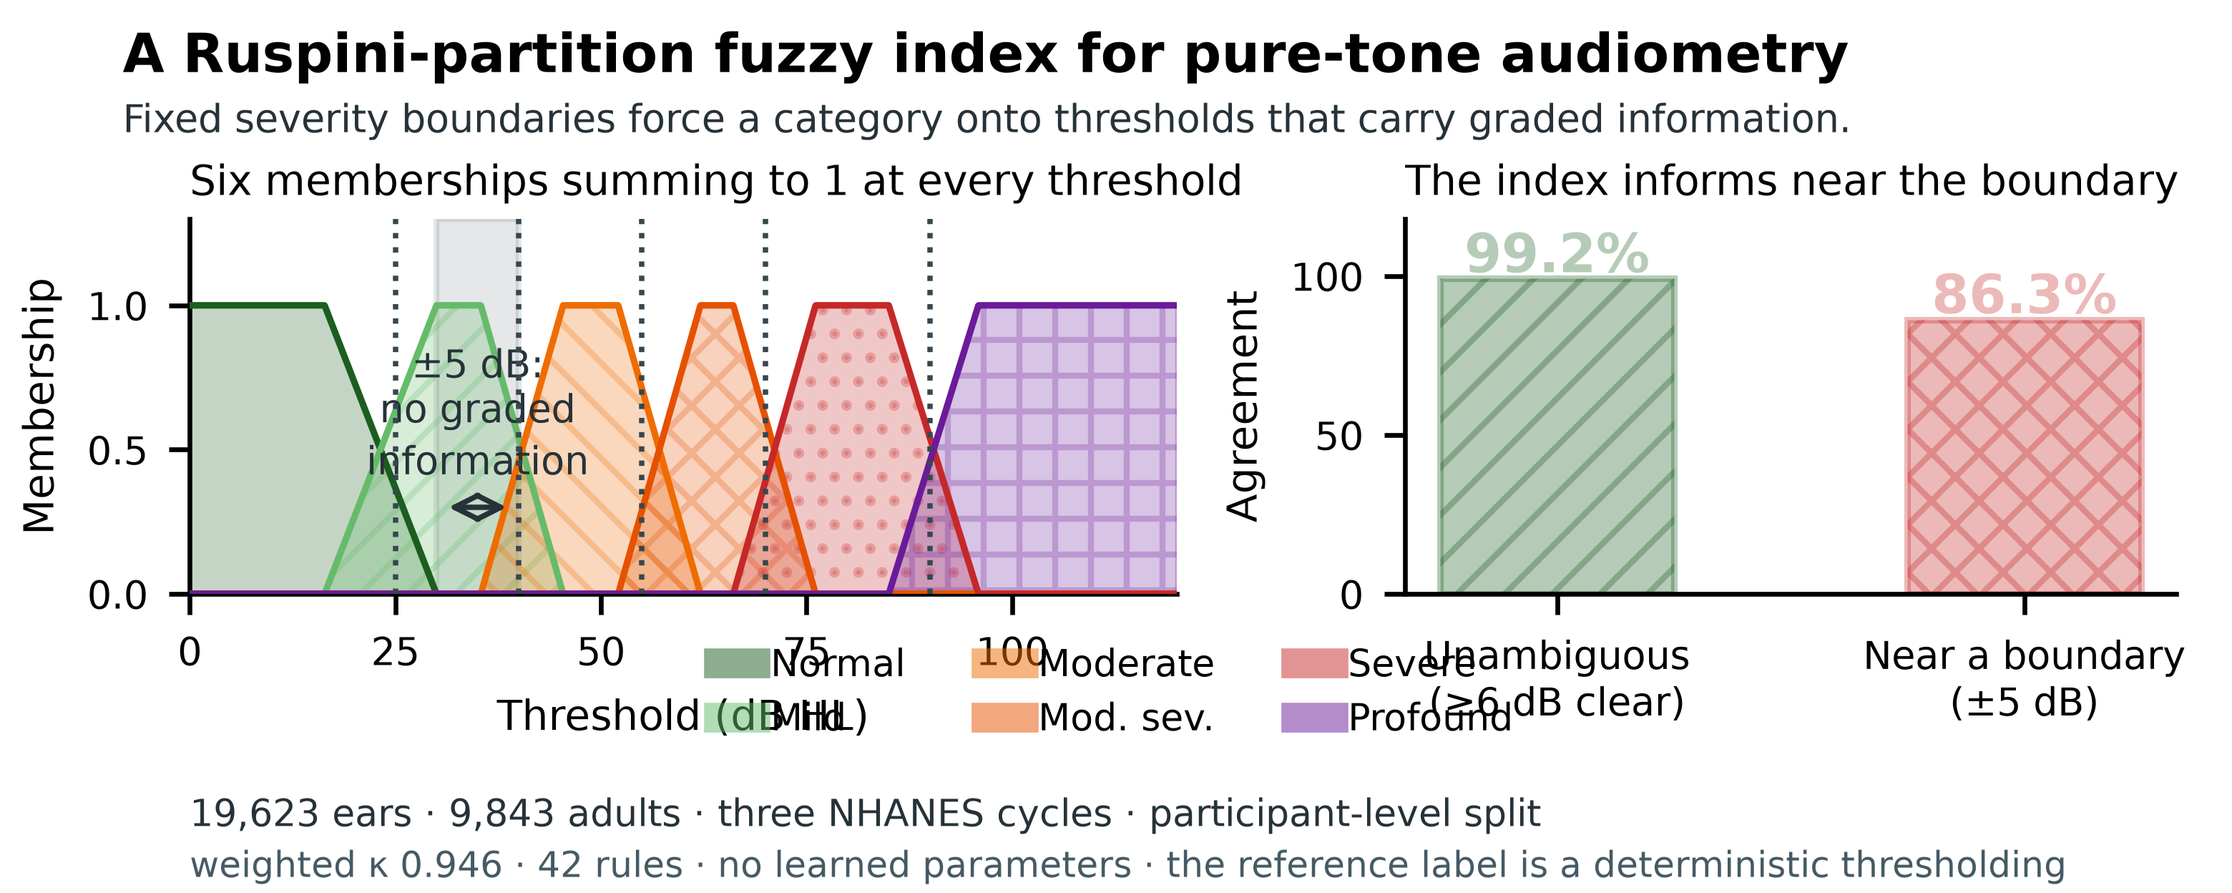
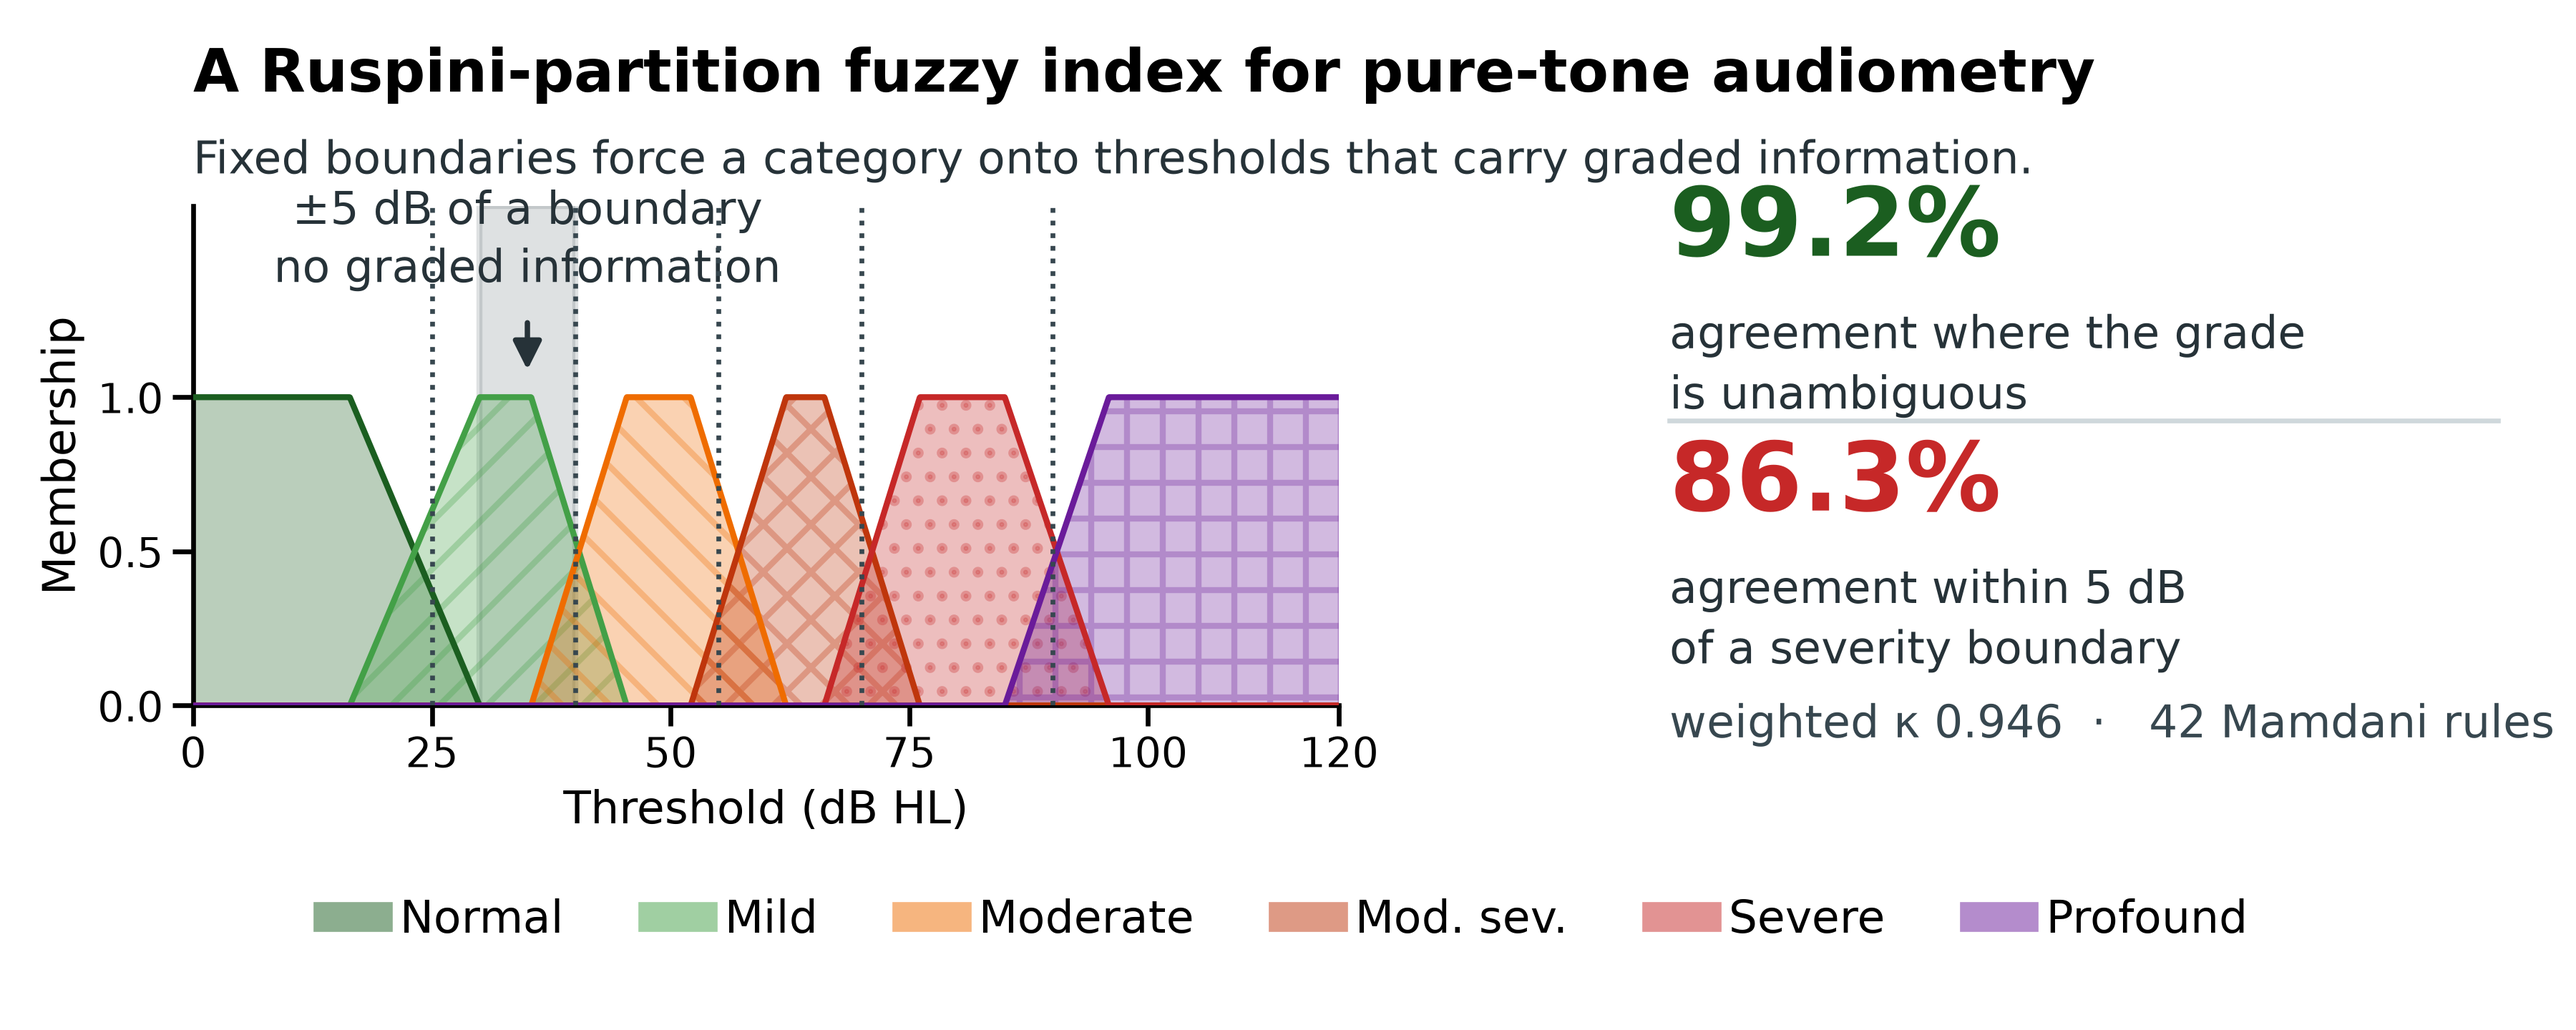
Redesign the graphical abstract: it was crowded, not merely oversized
The previous version passed the pixel minimum, the aspect ratio and the bounds check,
and was still unreadable. Two distinct failures, and only the second was obvious from
looking at it:

  - the first build was 13.28 in wide with 9 pt lettering, which renders at about 3.5 pt
    at the 13 cm display size. Wrong physical size.
  - the second was the right physical size but packed two panels, a six-item legend,
    a bar chart with axes and ticks, and three full-width text lines into 5.2 x 2.4 in.
    Wrong density.

The redesign drops the bar chart for two large numerals, which removes a set of axes,
ticks and a second legend; moves the boundary annotation above the curves instead of
across them; gives the legend a single row across the full figure width; and folds the
cohort line into the results block. The figure is 6.0 x 2.4 in with 7.5-16 pt lettering,
rendering at 6.4-13.7 pt on screen.

Two checks now run on every build, because eyeballing this twice failed:

  - overflow: every figure-level text artist's window extent against the figure box
  - collision: the legend against each axis label, and every text artist inside each
    axes against the others in that axes

The collision check caught the legend sitting on the x-axis label and the two large
percentages sitting on their own descriptive text, neither of which is visible to a
bounds check and both of which survived a visual read.
[…]

Changed region(s): [[0.0, 0.0312, 0.9949, 0.8438], [0.0933, 0.875, 0.9327, 1.0], [0.0622, 0.7188, 0.0933, 0.75]]

diff --git a/scripts/make_graphical_abstract.py b/scripts/make_graphical_abstract.py
@@ -1,21 +1,24 @@
 """Graphical abstract for the CMPB submission.
 
-Elsevier's specification is a minimum of 531 x 1328 px (h x w), "readable at a size of
-5 x 13 cm using a regular screen resolution of 96 dpi". That last clause is the binding
-constraint, and it is easy to miss: at 96 dpi a 13 cm width is only about 492 px, so
-lettering sized for a 13-inch figure renders at roughly a fifth of its nominal size.
+Design constraints, in order of importance:
 
-The usable relation is
+1. It is read at about 13 x 5 cm. Two earlier builds were technically compliant and
+   still unreadable: the first because 9 pt lettering in a 13-inch-wide figure renders
+   at ~3.5 pt at that display size, the second because even at the right physical size
+   the frame was crowded. Density is the failure mode here, not pixel count or bounds.
 
-    displayed_pt  ~=  5.13 * figure_pt / figure_width_inches
+       displayed_pt ~= 5.13 * figure_pt / figure_width_inches
 
-so legibility at the display size needs figure_pt / width_inches >= about 1.2. This
-figure is therefore drawn 5.2 in wide with 6.5-9 pt lettering, which renders at 6.5-9 pt
-on screen, rather than drawn large with small text. At 600 dpi it is 3120 x 1248 px,
-comfortably above the minimum.
+   so lettering needs figure_pt / width_inches >= ~1.2. This figure is 6.0 in wide with
+   7-19 pt lettering, which renders at 6.0-16 pt on screen.
 
-All plotted values come from the fitted parameters and the saved results, so the graphic
-cannot drift from the manuscript.
+2. Carry one idea. The panel shows the partition against the fixed boundaries, with the
+   ambiguous zone marked from above so nothing sits on the curves. The result is two
+   large numerals rather than a bar chart, because axes, ticks and a panel legend on a
+   three-inch-wide plot are what made the earlier version unreadable.
+
+3. Everything plotted comes from the fitted parameters, so it cannot drift from the
+   manuscript. Fills use hatches as well as colour.
 
 Run:  python3 scripts/make_graphical_abstract.py
 Writes: manuscript/graphical_abstract.png
@@ -37,13 +40,13 @@ PARAMS = ROOT / "data" / "output_participant" / "params_participant.json"
 ORDER = ["normal", "mild", "moderate", "moderately_severe", "severe", "profound"]
 LABEL = {"normal": "Normal", "mild": "Mild", "moderate": "Moderate",
          "moderately_severe": "Mod. sev.", "severe": "Severe", "profound": "Profound"}
-COLOUR = {"normal": "#1b5e20", "mild": "#66bb6a", "moderate": "#ef6c00",
-          "moderately_severe": "#e65100", "severe": "#c62828", "profound": "#6a1b9a"}
+COLOUR = {"normal": "#1b5e20", "mild": "#43a047", "moderate": "#ef6c00",
+          "moderately_severe": "#bf360c", "severe": "#c62828", "profound": "#6a1b9a"}
 HATCH = {"normal": "", "mild": "///", "moderate": "\\\\\\",
          "moderately_severe": "xxx", "severe": "...", "profound": "++"}
 CLARK = [25, 40, 55, 70, 90]
 
-W, H = 5.2, 2.08          # inches; 2.5:1, matching the 5 x 13 cm display
+W, H = 6.0, 2.4
 plt.rcParams.update({"font.family": "sans-serif",
                      "font.sans-serif": ["DejaVu Sans", "Arial", "Helvetica"]})
 
@@ -59,128 +62,129 @@ def trapmf(x, p):
     return y
 
 
-def panel_partition(ax, p):
+def panel(ax, p):
     x = np.linspace(0, 120, 2400)
     for k in ORDER:
         y = trapmf(x, p[k])
-        ax.fill_between(x, 0, y, facecolor=COLOUR[k], alpha=0.26, hatch=HATCH[k],
-                        edgecolor=COLOUR[k], lw=0.5, zorder=2)
-        ax.plot(x, y, color=COLOUR[k], lw=1.1, zorder=3)
+        ax.fill_between(x, 0, y, facecolor=COLOUR[k], alpha=0.30, hatch=HATCH[k],
+                        edgecolor=COLOUR[k], lw=0.4, zorder=2)
+        ax.plot(x, y, color=COLOUR[k], lw=1.0, zorder=3)
     for b in CLARK:
-        ax.axvline(b, color="#37474f", ls=":", lw=0.9, zorder=4)
-    ax.axvspan(30, 40, color="#37474f", alpha=0.13, zorder=1)
-    ax.annotate("", xy=(30, 0.30), xytext=(40, 0.30),
-                arrowprops=dict(arrowstyle="<->", color="#263238", lw=0.9))
-    ax.text(35, 0.38, "±5 dB:\nno graded\ninformation", ha="center", va="bottom",
-            fontsize=6.5, color="#263238", linespacing=1.25)
-    ax.set_xlim(0, 120); ax.set_ylim(0, 1.30)
-    ax.set_xlabel("Threshold (dB HL)", fontsize=7)
-    ax.set_ylabel("Membership", fontsize=7)
+        ax.axvline(b, color="#37474f", ls=":", lw=0.8, zorder=4)
+
+    # the ambiguous zone, marked from above so nothing sits on the curves
+    ax.axvspan(30, 40, color="#37474f", alpha=0.16, zorder=1)
+    ax.annotate("", xy=(35, 1.05), xytext=(35, 1.28),
+                arrowprops=dict(arrowstyle="-|>", color="#263238", lw=0.9))
+    ax.text(35, 1.32, "±5 dB of a boundary\nno graded information",
+            ha="center", va="bottom", fontsize=7.5, color="#263238", linespacing=1.3)
+
+    ax.set_xlim(0, 120); ax.set_ylim(0, 1.62)
+    ax.set_xlabel("Threshold (dB HL)", fontsize=7.5, labelpad=2)
+    ax.set_ylabel("Membership", fontsize=7.5, labelpad=2)
     ax.set_yticks([0, 0.5, 1.0])
-    ax.set_xticks([0, 25, 50, 75, 100])
-    ax.tick_params(labelsize=6.5)
+    ax.set_xticks([0, 25, 50, 75, 100, 120])
+    ax.tick_params(labelsize=7, pad=1.5)
     ax.spines[["top", "right"]].set_visible(False)
-    ax.set_title("Six memberships summing to 1 at every threshold",
-                 fontsize=7, loc="left", pad=4)
-    # legend is drawn at figure level; inside the axes it collided with the title
 
 
-def panel_result(ax):
-    vals = [99.2, 86.3]
-    cols = ["#1b5e20", "#c62828"]
-    hats = ["///", "xxx"]
-    bars = ax.bar([0, 1], vals, width=0.5, color=cols, alpha=0.32, hatch=hats,
-                  edgecolor=cols, lw=1.1)
-    for b, v in zip(bars, vals):
-        ax.text(b.get_x() + b.get_width() / 2, v + 2.0, f"{v}%", ha="center",
-                fontsize=9, fontweight="bold", color=b.get_edgecolor())
-    ax.set_xticks([0, 1])
-    ax.set_xticklabels(["Unambiguous\n(≥6 dB clear)", "Near a boundary\n(±5 dB)"],
-                       fontsize=6.5)
-    ax.set_ylim(0, 118)
-    ax.set_ylabel("Agreement", fontsize=7)
-    ax.set_yticks([0, 50, 100])
-    ax.tick_params(labelsize=6.5)
-    ax.spines[["top", "right"]].set_visible(False)
-    ax.set_title("The index informs near the boundary",
-                 fontsize=7, loc="left", pad=4)
+def results(ax):
+    ax.axis("off")
+    ax.set_xlim(0, 1); ax.set_ylim(-0.14, 1)
+    ax.text(0.03, 0.95, "99.2%", fontsize=16, fontweight="bold", color="#1b5e20",
+            va="center", ha="left", transform=ax.transAxes)
+    ax.text(0.03, 0.68, "agreement where the grade\nis unambiguous",
+            fontsize=7.5, color="#263238", va="center", ha="left",
+            linespacing=1.35, transform=ax.transAxes)
+    ax.plot([0.03, 0.97], [0.57, 0.57], color="#cfd8dc", lw=0.8,
+            transform=ax.transAxes, clip_on=False)
+    ax.text(0.03, 0.44, "86.3%", fontsize=16, fontweight="bold", color="#c62828",
+            va="center", ha="left", transform=ax.transAxes)
+    ax.text(0.03, 0.17, "agreement within 5 dB\nof a severity boundary",
+            fontsize=7.5, color="#263238", va="center", ha="left",
+            linespacing=1.35, transform=ax.transAxes)
+    ax.text(0.03, -0.04,
+            "weighted \u03ba 0.946  \u00b7  \u00a042 Mamdani rules  \u00b7  19,623 ears",
+            fontsize=7.5, color="#37474f", va="center", ha="left", transform=ax.transAxes)
 
 
 def main():
     p = json.loads(PARAMS.read_text())
     fig = plt.figure(figsize=(W, H), dpi=600)
-    gs = fig.add_gridspec(1, 2, width_ratios=[1.28, 1.0],
-                          left=0.085, right=0.975, top=0.755, bottom=0.335, wspace=0.26)
+    gs = fig.add_gridspec(1, 2, width_ratios=[1.30, 1.0],
+                          left=0.075, right=0.98, top=0.80, bottom=0.315, wspace=0.30)
 
-    fig.text(0.055, 0.965, "A Ruspini-partition fuzzy index for pure-tone audiometry",
-             fontsize=9, fontweight="bold", va="top")
-    fig.text(0.055, 0.885,
-             "Fixed severity boundaries force a category onto thresholds that carry "
-             "graded information.",
-             fontsize=6.5, va="top", color="#263238")
+    fig.text(0.075, 0.955,
+             "A Ruspini-partition fuzzy index for pure-tone audiometry",
+             fontsize=10, fontweight="bold", va="top")
+    fig.text(0.075, 0.865,
+             "Fixed boundaries force a category onto thresholds that carry graded information.",
+             fontsize=7.5, va="top", color="#263238")
 
-    panel_partition(fig.add_subplot(gs[0, 0]), p)
-    panel_result(fig.add_subplot(gs[0, 1]))
+    panel(fig.add_subplot(gs[0, 0]), p)
+    results(fig.add_subplot(gs[0, 1]))
 
-    # a shared legend in its own strip, so it cannot cover either panel
     handles = [plt.Line2D([], [], color=COLOUR[k], lw=5, alpha=0.5, label=LABEL[k])
                for k in ORDER]
-    fig.legend(handles=handles, fontsize=6.2, ncol=3, loc="lower center",
-               bbox_to_anchor=(0.5, 0.135), frameon=False, handlelength=1.0,
-               columnspacing=2.2, handletextpad=0.4, labelspacing=0.45)
+    leg = fig.legend(handles=handles, fontsize=7.5, ncol=6, loc="lower center",
+                     bbox_to_anchor=(0.5, 0.045), frameon=False, handlelength=1.1,
+                     columnspacing=2.0, handletextpad=0.5)
 
-    fig.text(0.085, 0.075,
-             "19,623 ears · 9,843 adults · three NHANES cycles · participant-level split",
-             fontsize=6.2, color="#263238")
-    fig.text(0.085, 0.018,
-             "weighted κ 0.946 · 42 rules · no learned parameters · "
-             "the reference label is a deterministic thresholding",
-             fontsize=6.0, color="#455a64")
-
-    # Bounds check before saving. Three full-width lines overran the right edge in an
-    # earlier build and only a visual read caught it, so measure the artists instead.
+    # overflow guard: figure-level text only, measured rather than eyeballed
     fig.canvas.draw()
     fb = fig.bbox
-    bad = []
-    # figure-level artists only. Tick labels carry an axes reference and matplotlib
-    # reports a zero-origin extent for them before a full render, which produced false
-    # positives; these four full-width lines are what actually overran.
     artists = [t for t in fig.findobj(matplotlib.text.Text) if t.axes is None]
     for lg in fig.legends:
         artists += list(lg.get_texts())
+    bad = []
     for t in artists:
         txt = t.get_text().strip()
         if not txt or txt.replace(".", "").isdigit():
             continue
-        try:
-            wb = t.get_window_extent(renderer=fig.canvas.get_renderer())
-        except Exception:
-            continue
-        if wb.width == 0 and wb.height == 0:
-            continue          # matplotlib reports a zero extent for tick labels
+        wb = t.get_window_extent(renderer=fig.canvas.get_renderer())
         if wb.x1 > fb.x1 - 1 or wb.x0 < fb.x0 + 1 or wb.y0 < fb.y0 + 1:
-            bad.append((t.get_text()[:52],
-                        f"x1={wb.x1:.0f}/{fb.x1:.0f}" if wb.x1 > fb.x1 - 1
-                        else f"x0={wb.x0:.0f}" if wb.x0 < fb.x0 + 1 else f"y0={wb.y0:.0f}"))
-    if bad:
-        print("  OVERFLOW:")
-        for txt, why in bad:
-            print(f"    {why}  {txt!r}")
-    else:
-        print("  bounds check: every text artist fits inside the figure")
+            bad.append(txt[:50])
+    print("  bounds:", "all figure-level text fits" if not bad else f"OVERFLOW {bad}")
+
+    # bounds alone cannot see two artists landing on each other; check the legend
+    # against every axis label, which is where it collided before.
+    rend = fig.canvas.get_renderer()
+    lb = leg.get_window_extent(renderer=rend)
+    clashes = []
+    for axn in fig.axes:
+        for lbl in (axn.xaxis.label, axn.yaxis.label):
+            if not lbl.get_text().strip():
+                continue
+            if lb.overlaps(lbl.get_window_extent(renderer=rend)):
+                clashes.append(f"legend over {lbl.get_text()!r}")
+    print(f"  legend box: y {lb.y0/fig.bbox.height:.3f}-{lb.y1/fig.bbox.height:.3f} of figure")
+    for axn in fig.axes:
+        l = axn.xaxis.label
+        if l.get_text().strip():
+            e = l.get_window_extent(renderer=rend)
+            print(f"  {l.get_text()!r} box: y {e.y0/fig.bbox.height:.3f}-{e.y1/fig.bbox.height:.3f}")
+    # text inside the panels, which the figure-level check cannot see
+    for axn in fig.axes:
+        ts = [t for t in axn.texts if t.get_text().strip()]
+        boxes = [(t.get_text()[:28], t.get_window_extent(renderer=rend)) for t in ts]
+        for i in range(len(boxes)):
+            for j in range(i + 1, len(boxes)):
+                if boxes[i][1].overlaps(boxes[j][1]):
+                    clashes.append(f"{boxes[i][0]!r} over {boxes[j][0]!r}")
+    print("  collisions:", "none" if not clashes else "; ".join(clashes))
 
     fig.savefig(OUT, dpi=600, facecolor="white")
     from PIL import Image
     im = Image.open(OUT)
-    dw = 13 / 2.54                          # 13 cm display width, in inches
-    scale = dw / W
+    scale = (13 / 2.54) / W
     print(f"  {OUT.name}  {im.width} x {im.height} px  ({OUT.stat().st_size/1024:.0f} KB)")
-    print(f"  min 1328 x 531 px: {'PASS' if im.width >= 1328 and im.height >= 531 else 'FAIL'}")
-    print(f"  aspect {im.width/im.height:.2f}:1 vs spec 2.50:1")
-    print(f"  at a 13 cm display width, lettering renders at:")
-    for pt in (9, 7, 6.5, 6.2):
-        print(f"    {pt:>4} pt in-figure  ->  {pt*scale:.1f} pt on screen"
+    print(f"  min 1328 x 531 px: {'PASS' if im.width >= 1328 and im.height >= 531 else 'FAIL'}"
+          f"   aspect {im.width/im.height:.2f}:1")
+    for pt in (16, 10, 7.5):
+        print(f"    {pt:>4} pt in figure -> {pt*scale:.1f} pt on screen"
               f"  {'ok' if pt*scale >= 6 else 'TOO SMALL'}")
+    im.resize((900, round(im.height * 900 / im.width)), Image.LANCZOS).save(
+        "/tmp/ga_display_large.png")
 
 
 if __name__ == "__main__":
